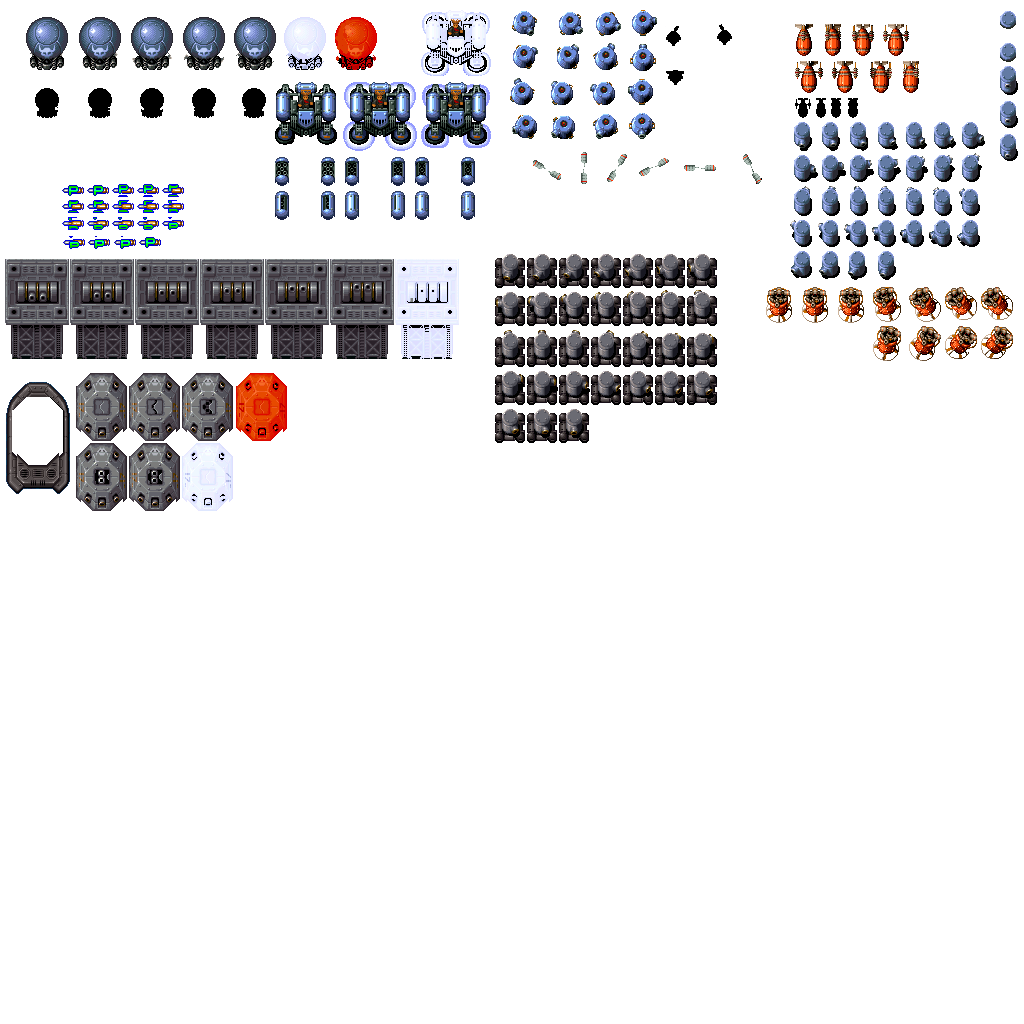
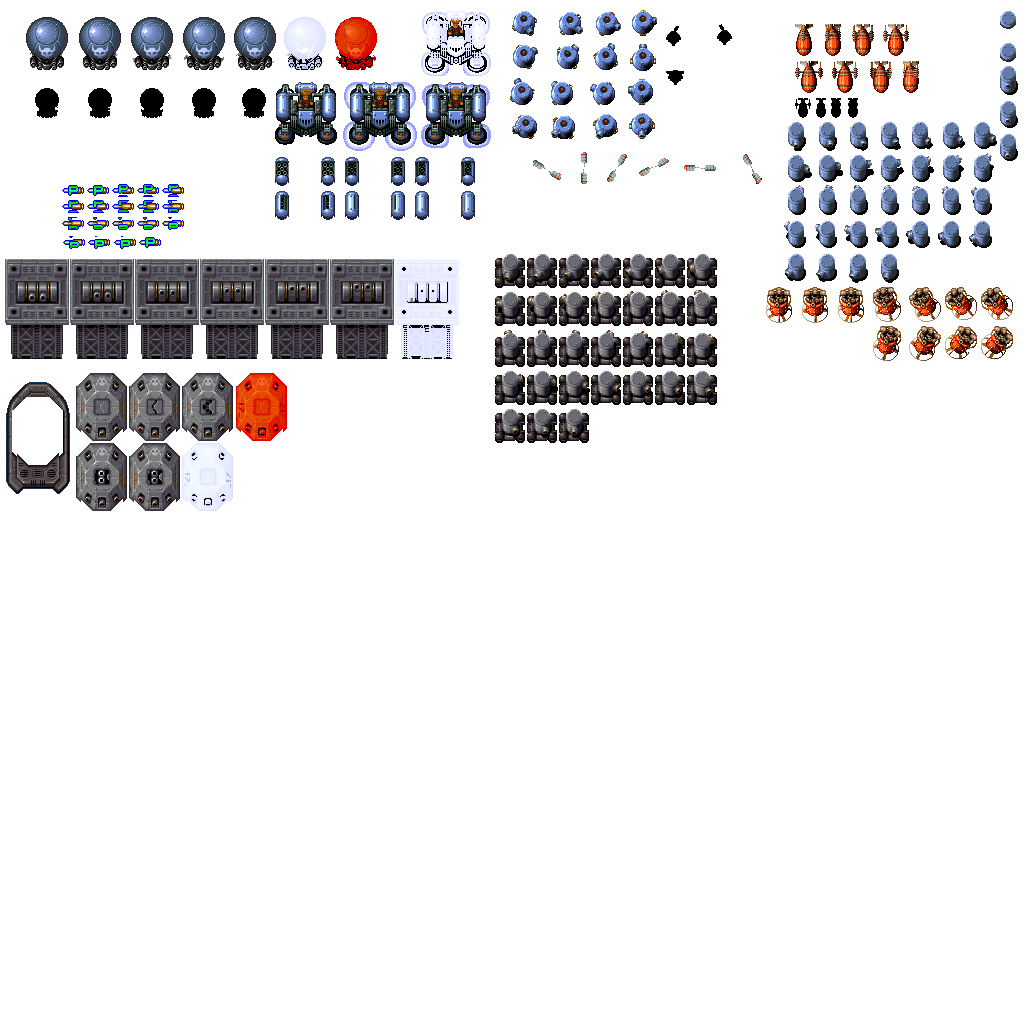
0.7.3.3
- Blue Turret implemented

Changed region(s): [[0.75, 0.0938, 0.9688, 0.2812]]

diff --git a/Gunbird 0.7/Enemy_BlueTurret.cpp b/Gunbird 0.7/Enemy_BlueTurret.cpp
@@ -1,0 +1,226 @@
+#include "Application.h"
+#include "Enemy_BlueTurret.h"
+#include "ModuleCollision.h"
+#include "ModuleTextures.h"
+#include "ModuleParticles.h"
+#include "ModulePlayer.h"
+#include "ModuleSea.h"
+#include "ModuleEnemies.h"
+#include "SDL/include/SDL_timer.h"
+
+#include <math.h>
+
+#define PI 3.14159265
+#define ANGLE_CONVERT (180.0 / PI)
+#define ANGLE_CONVERT_REVERSE (PI / 180.0)
+
+Enemy_BlueTurret::Enemy_BlueTurret(int x, int y) : Enemy(x, y)
+{
+	appear.PushBack({1000,0,18,29});
+	appear.PushBack({ 1000,33,18,29 });
+	appear.PushBack({ 1000,66,18,29 });
+	appear.PushBack({ 1000,99,18,29 });
+	appear.PushBack({ 1000,132,18,29 });
+	appear.speed = 0.1;
+
+	enemy_position_1.PushBack({ 782,119,30,32});
+	enemy_position_2.PushBack({ 813,119,30,32 });
+	enemy_position_3.PushBack({ 844,119,30,32 });
+	enemy_position_4.PushBack({ 875,119,30,32 });
+	enemy_position_5.PushBack({ 906,119,30,32 });
+	enemy_position_6.PushBack({ 937,119,30,32 });
+	enemy_position_7.PushBack({ 968,119,30,32 });
+
+	enemy_position_8.PushBack({ 782,152,30,32 });
+	enemy_position_9.PushBack({ 813,152,30,32 });
+	enemy_position_10.PushBack({ 844,152,30,32 });
+	enemy_position_11.PushBack({ 875,152,30,32 });
+	enemy_position_12.PushBack({ 906,152,30,32 });
+	enemy_position_13.PushBack({ 937,152,30,32 });
+	enemy_position_14.PushBack({ 968,152,30,32 });
+
+	enemy_position_15.PushBack({ 782,185,30,32 });
+	enemy_position_16.PushBack({ 813,185,30,32 });
+	enemy_position_17.PushBack({ 844,185,30,32 });
+	enemy_position_18.PushBack({ 875,185,30,32 });
+	enemy_position_19.PushBack({ 906,185,30,32 });
+	enemy_position_20.PushBack({ 937,185,30,32 });
+	enemy_position_21.PushBack({ 968,185,30,32 });
+
+	enemy_position_22.PushBack({ 782,218,30,32 });
+	enemy_position_23.PushBack({ 813,218,30,32 });
+	enemy_position_24.PushBack({ 844,218,30,32 });
+	enemy_position_25.PushBack({ 875,218,30,32 });
+	enemy_position_26.PushBack({ 906,218,30,32 });
+	enemy_position_27.PushBack({ 937,218,30,32 });
+	enemy_position_28.PushBack({ 968,218,30,32 });
+
+
+	enemy_position_29.PushBack({ 782,251,30,32 });
+	enemy_position_30.PushBack({ 813,251,30,32 });
+	enemy_position_31.PushBack({ 844,251,30,32 });
+	enemy_position_32.PushBack({ 875,251,30,32 });
+
+
+	movement.PushBack({ 0.0f,-1 }, 350, &appear);
+
+
+	collider = App->collision->AddCollider({ 0, 0, 30,32 }, COLLIDER_TYPE::COLLIDER_ENEMY, (Module*)App->enemies);
+
+	originalpos.x = x;
+	originalpos.y = y;
+
+
+}
+
+void Enemy_BlueTurret::Move()
+{
+	/*if (App->player->position.x > 100) {
+		animation = &appear;
+	}*/
+	
+		bool left;
+		float angle;
+
+
+		if (App->player->position.x >= position.x) {
+			left = false;
+		}
+		else {
+			left = true;
+		}
+
+		angle = ((float)acos((((App->player->position.x - position.x) * 0) + ((App->player->position.y - position.y) * 1)) / (sqrt((double)((App->player->position.x - position.x)*(App->player->position.x - position.x) + (App->player->position.y - position.y)*(App->player->position.y - position.y)))*sqrt((double)(0 * 0 + 1 * 1))))) * ANGLE_CONVERT;
+		if (left == false) {
+			if (angle < 5.625) {
+				animation = &enemy_position_1;
+			}
+			else if (angle >= 5.625 && angle < 16.875) {
+				animation = &enemy_position_2;
+			}
+			else if (angle >= 16.875 && angle < 28.125) {
+				animation = &enemy_position_3;
+			}
+			else if (angle >= 28.125 && angle < 39.375) {
+				animation = &enemy_position_4;
+			}
+			else if (angle >= 39.375 && angle <50.625) {
+				animation = &enemy_position_5;
+			}
+			else if (angle >= 50.625 && angle < 61.875) {
+				animation = &enemy_position_6;
+			}
+			else if (angle >= 61.875 && angle < 73.125) {
+				animation = &enemy_position_7;
+			}
+			else if (angle >= 73.125 && angle < 84.375) {
+				animation = &enemy_position_8;
+			}
+			else if (angle >= 84.375 && angle < 95.625) {
+				animation = &enemy_position_9;
+			}
+			else if (angle >= 95.625 && angle < 106.875) {
+				animation = &enemy_position_10;
+			}
+			else if (angle >= 106.875&& angle < 118.125) {
+				animation = &enemy_position_11;
+			}
+			else if (angle >= 118.125 && angle < 129.375) {
+				animation = &enemy_position_12;
+			}
+			else if (angle >= 129.375 && angle < 140.625) {
+				animation = &enemy_position_13;
+			}
+			else if (angle >= 140.625 && angle < 151.875) {
+				animation = &enemy_position_14;
+			}
+			else if (angle >= 151.875 && angle < 163.125) {
+				animation = &enemy_position_15;
+			}
+			else if (angle >= 163.125 && angle < 174.375) {
+				animation = &enemy_position_16;
+			}
+			else if (angle >= 163.125 && angle <= 180) {
+				animation = &enemy_position_17;
+			}
+		}
+		//Left
+
+		else {
+			if (angle < 5.625) {
+				animation = &enemy_position_1;
+			}
+			else if (angle >= 5.625 && angle < 16.875) {
+				animation = &enemy_position_32;
+			}
+			else if (angle >= 16.875 && angle < 28.125) {
+				animation = &enemy_position_31;
+			}
+			else if (angle >= 28.125 && angle < 39.375) {
+				animation = &enemy_position_30;
+			}
+			else if (angle >= 39.375 && angle <50.625) {
+				animation = &enemy_position_29;
+			}
+			else if (angle >= 50.625 && angle < 61.875) {
+				animation = &enemy_position_28;
+			}
+			else if (angle >= 61.875 && angle < 73.125) {
+				animation = &enemy_position_27;
+			}
+			else if (angle >= 73.125 && angle < 84.375) {
+				animation = &enemy_position_26;
+			}
+			else if (angle >= 84.375 && angle < 95.625) {
+				animation = &enemy_position_25;
+			}
+			else if (angle >= 95.625 && angle < 106.875) {
+				animation = &enemy_position_24;
+			}
+			else if (angle >= 106.875&& angle < 118.125) {
+				animation = &enemy_position_23;
+			}
+			else if (angle >= 118.125 && angle < 129.375) {
+				animation = &enemy_position_22;
+			}
+			else if (angle >= 129.375 && angle < 140.625) {
+				animation = &enemy_position_21;
+			}
+			else if (angle >= 140.625 && angle < 151.875) {
+				animation = &enemy_position_20;
+			}
+			else if (angle >= 151.875 && angle < 163.125) {
+				animation = &enemy_position_19;
+			}
+			else if (angle >= 163.125 && angle < 174.375) {
+				animation = &enemy_position_18;
+			}
+			else if (angle >= 163.125 && angle <= 180) {
+				animation = &enemy_position_17;
+			}
+
+		}
+	
+	if (App->sea->pause == false) {
+		position = originalpos + movement.GetCurrentPosition();
+	}
+}
+
+void Enemy_BlueTurret::Shoot() {
+	if (App->sea->pause == false) {
+
+			now = SDL_GetTicks() - start_time;
+			if (now > 3000) {
+				pos_x = (App->player->position.x - (ASH_WIDTH / 2)) - position.x;
+				pos_y = App->player->position.y - position.y;
+				module = sqrt((pos_x*pos_x) + (pos_y*pos_y));
+				v_x = 4 * (pos_x / module);
+				v_y = (4 * (pos_y / module) - 1.88f);
+
+				App->particles->AddParticle(App->particles->enemy_shoot, position.x + 21, position.y + 26, v_x, v_y, COLLIDER_ENEMY_SHOT);
+				start_time = SDL_GetTicks();
+
+			
+		}
+	}
+}

diff --git a/Gunbird 0.7/Enemy_BlueTurret.h b/Gunbird 0.7/Enemy_BlueTurret.h
@@ -1,0 +1,63 @@
+#ifndef __ENEMY_BLUETURRET_H__
+#define __ENEMY_BLUETURRET_H__
+
+#include "Enemy.h"
+#include "Path.h"
+
+class Enemy_BlueTurret : public Enemy
+{
+private:
+	iPoint originalpos;
+	Animation enemy_position_1;
+	Animation enemy_position_2;
+	Animation enemy_position_3;
+	Animation enemy_position_4;
+	Animation enemy_position_5;
+	Animation enemy_position_6;
+	Animation enemy_position_7;
+	Animation enemy_position_8;
+	Animation enemy_position_9;
+	Animation enemy_position_10;
+	Animation enemy_position_11;
+	Animation enemy_position_12;
+	Animation enemy_position_13;
+	Animation enemy_position_14;
+	Animation enemy_position_15;
+	Animation enemy_position_16;
+	Animation enemy_position_17;
+	Animation enemy_position_18;
+	Animation enemy_position_19;
+	Animation enemy_position_20;
+	Animation enemy_position_21;
+	Animation enemy_position_22;
+	Animation enemy_position_23;
+	Animation enemy_position_24;
+	Animation enemy_position_25;
+	Animation enemy_position_26;
+	Animation enemy_position_27;
+	Animation enemy_position_28;
+	Animation enemy_position_29;
+	Animation enemy_position_30;
+	Animation enemy_position_31;
+	Animation enemy_position_32;
+
+	Animation appear;
+	Path movement;
+	Uint32 start_time = 0;
+	Uint32 now = 0;
+	uint time = 0;
+	float pos_x;
+	float pos_y;
+	float module;
+	float v_x;
+	float v_y;
+
+public:
+
+	Enemy_BlueTurret(int x, int y);
+
+	void Move();
+	void Shoot();
+};
+
+#endif

diff --git a/Gunbird 0.7/ModuleEnemies.cpp b/Gunbird 0.7/ModuleEnemies.cpp
@@ -19,6 +19,7 @@
 #include "Enemy_SurfingTurret.h"
 #include "Enemy_SurfingTurret2.h"
 #include "Enemy_StaticTurret.h"
+#include "Enemy_BlueTurret.h"
 #include "PowerUp.h"
 
 
@@ -214,6 +215,9 @@ void ModuleEnemies::SpawnEnemy(const EnemyInfo& info)
 
 		case ENEMY_TYPES::STATICTURRET:
 			enemies[i] = new  Enemy_StaticTurret(info.x, info.y);
+			break;
+		case ENEMY_TYPES::BLUETURRET:
+			enemies[i] = new  Enemy_BlueTurret(info.x, info.y);
 			break;
 		}
 		

diff --git a/Gunbird 0.7/ModuleEnemies.h b/Gunbird 0.7/ModuleEnemies.h
@@ -15,6 +15,7 @@ enum ENEMY_TYPES
 	BOMB,
 	BOMB2,
 	VERTICALBOMB,
+	BLUETURRET,
 	TOWER,
 	SURFINGTURRET,
 	SURFINGTURRET2,
